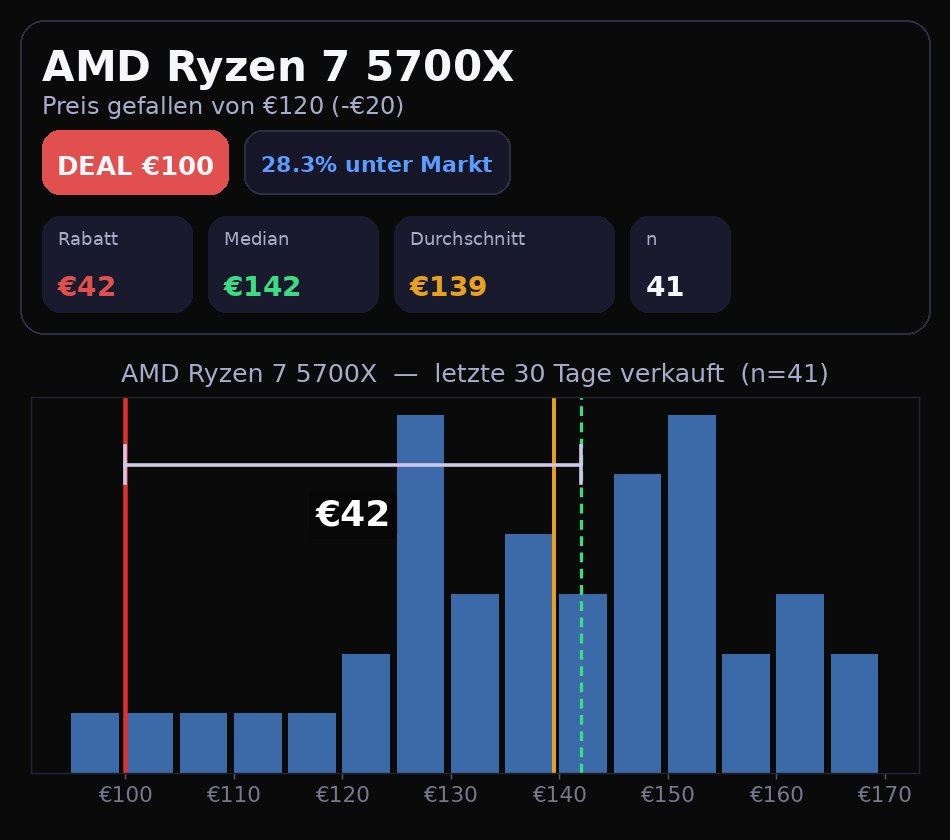
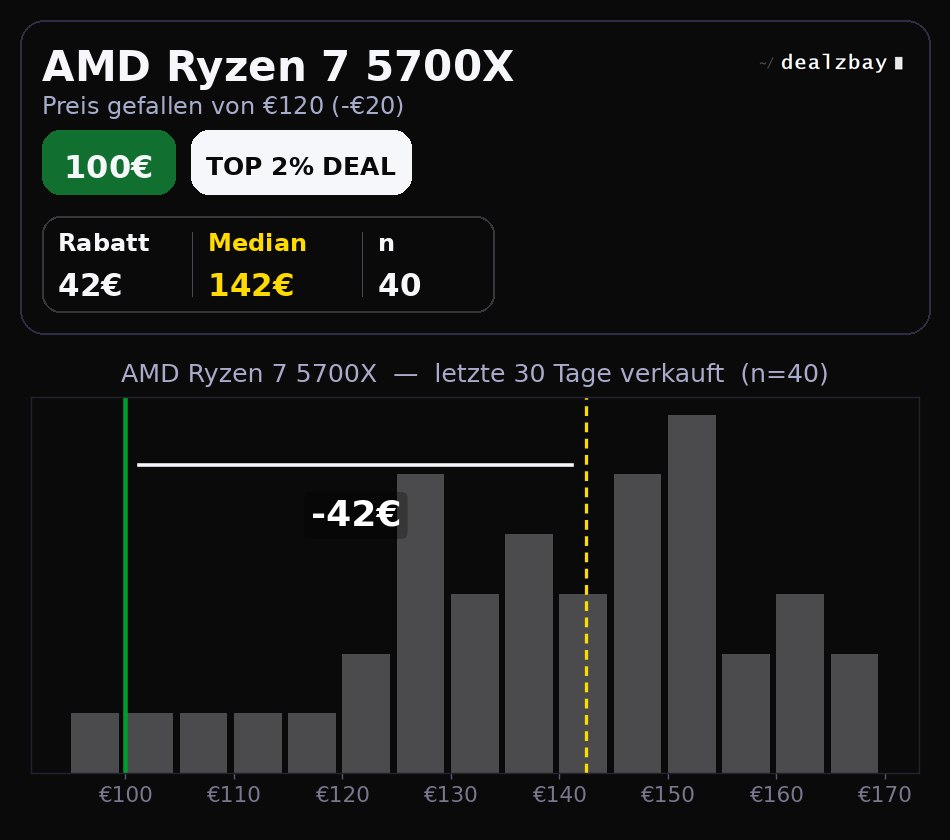
alert redesign

diff --git a/index.html b/index.html
@@ -598,7 +598,7 @@
 
     <!-- Histogram explainer — spans full width -->
     <div style="grid-column: 1 / -1; display: flex; justify-content: center; padding-top: 0.5rem; position: relative; z-index: 1; background: #0a0a0a;">
-      <div class="hist-explainer hist-explainer--prominent" data-de="Das Histogramm zeigt die Verteilung vergangener Verkaufspreise. Die rote Linie markiert den Preis des Deals. Je weiter links, desto besser der Deal." data-en="The histogram shows past sale price distribution — the red line marks this listing's price. The further left, the cheaper relative to history.">Das Histogramm zeigt die Verteilung vergangener Verkaufspreise. Die rote Linie markiert den Preis des Deals. Je weiter links, desto besser der Deal.</div>
+      <div class="hist-explainer hist-explainer--prominent" data-de="Das Histogramm zeigt die Verteilung vergangener Verkaufspreise. Die grüne Linie markiert den Preis des Deals. Je weiter links, desto besser der Deal." data-en="The histogram shows past sale price distribution — the green line marks this listing's price. The further left, the cheaper relative to history.">Das Histogramm zeigt die Verteilung vergangener Verkaufspreise. Die grüne Linie markiert den Preis des Deals. Je weiter links, desto besser der Deal.</div>
     </div>
 
   </div>
@@ -618,13 +618,13 @@
     <div class="how-step">
       <span class="how-step-num">02</span>
       <span class="how-step-title" data-de="Statistische Bewertung" data-en="Statistical scoring">Statistische Bewertung</span>
-      <span class="how-step-desc" data-de="Zubehör und Defekte werden herausgefiltert. Jedes Angebot wird gegen 30-Tage-Verkaufsdaten bewertet — nur echte Ausreißer kommen durch." data-en="Accessories and defects are filtered out. Every listing is scored against 30-day sold-price data — only genuine outliers get through.">Zubehör und Defekte werden herausgefiltert. Jedes Angebot wird gegen 30-Tage-Verkaufsdaten bewertet — nur echte Ausreißer kommen durch.</span>
+      <span class="how-step-desc" data-de="Zubehör und Defekte werden herausgefiltert. Jedes Angebot wird gegen 30-Tage-Verkaufsdaten bewertet. Nur echte Ausreißer kommen durch." data-en="Accessories and defects are filtered out. Every listing is scored against 30-day sold-price data. Only genuine outliers get through.">Zubehör und Defekte werden herausgefiltert. Jedes Angebot wird gegen 30-Tage-Verkaufsdaten bewertet. Nur echte Ausreißer kommen durch.</span>
     </div>
 
     <div class="how-step">
       <span class="how-step-num">03</span>
       <span class="how-step-title" data-de="Instant Alert" data-en="Instant Alert">Instant Alert</span>
-      <span class="how-step-desc" data-de="Du erhältst eine Telegram-Nachricht mit Preis und Rabatt — direkt wenn ein Deal erscheint." data-en="You get a Telegram message with price and discount — the moment a deal appears.">Du erhältst eine Telegram-Nachricht mit Preis und Rabatt — direkt wenn ein Deal erscheint.</span>
+      <span class="how-step-desc" data-de="Du erhältst eine Telegram-Nachricht mit Preis und Rabatt direkt wenn ein Deal erscheint." data-en="You get a Telegram message with price and discount the moment a deal appears.">Du erhältst eine Telegram-Nachricht mit Preis und Rabatt direkt wenn ein Deal erscheint.</span>
     </div>
 
     <div class="how-step">

diff --git a/datenschutz.html b/datenschutz.html
@@ -183,6 +183,11 @@
   </div>
 
   <div class="block">
+    <div class="block-label" data-de="Partnerlinks & eBay" data-en="Affiliate Links & eBay">Partnerlinks &amp; eBay</div>
+    <p data-de="Unsere Seite enthält Affiliate-Links zu eBay (eBay Inc., 2021 Center St, San Jose, CA 95112, USA). Bei Käufen über diese Links kann eine Provision anfallen — ohne zusätzliche Kosten für dich. Für die Datenverarbeitung bei eBay gilt deren Datenschutzerklärung." data-en="This page contains affiliate links to eBay (eBay Inc., 2021 Center St, San Jose, CA 95112, USA). Purchases via these links may earn a commission — at no extra cost to you. eBay's privacy policy applies for data processing there.">Unsere Seite enthält Affiliate-Links zu eBay (eBay Inc., 2021 Center St, San Jose, CA 95112, USA). Bei Käufen über diese Links kann eine Provision anfallen — ohne zusätzliche Kosten für dich. Für die Datenverarbeitung bei eBay gilt deren Datenschutzerklärung.</p>
+  </div>
+
+  <div class="block">
     <div class="block-label" data-de="Deine Rechte" data-en="Your Rights">Deine Rechte</div>
     <p data-de="Du hast das Recht auf Auskunft, Berichtigung, Löschung und Einschränkung der Verarbeitung deiner Daten sowie auf Datenübertragbarkeit. Kontakt: info@dealzbay.de" data-en="You have the right to access, correction, deletion, and restriction of processing of your data, as well as data portability. Contact: info@dealzbay.de">Du hast das Recht auf Auskunft, Berichtigung, Löschung und Einschränkung der Verarbeitung deiner Daten sowie auf Datenübertragbarkeit. Kontakt: info@dealzbay.de</p>
   </div>
